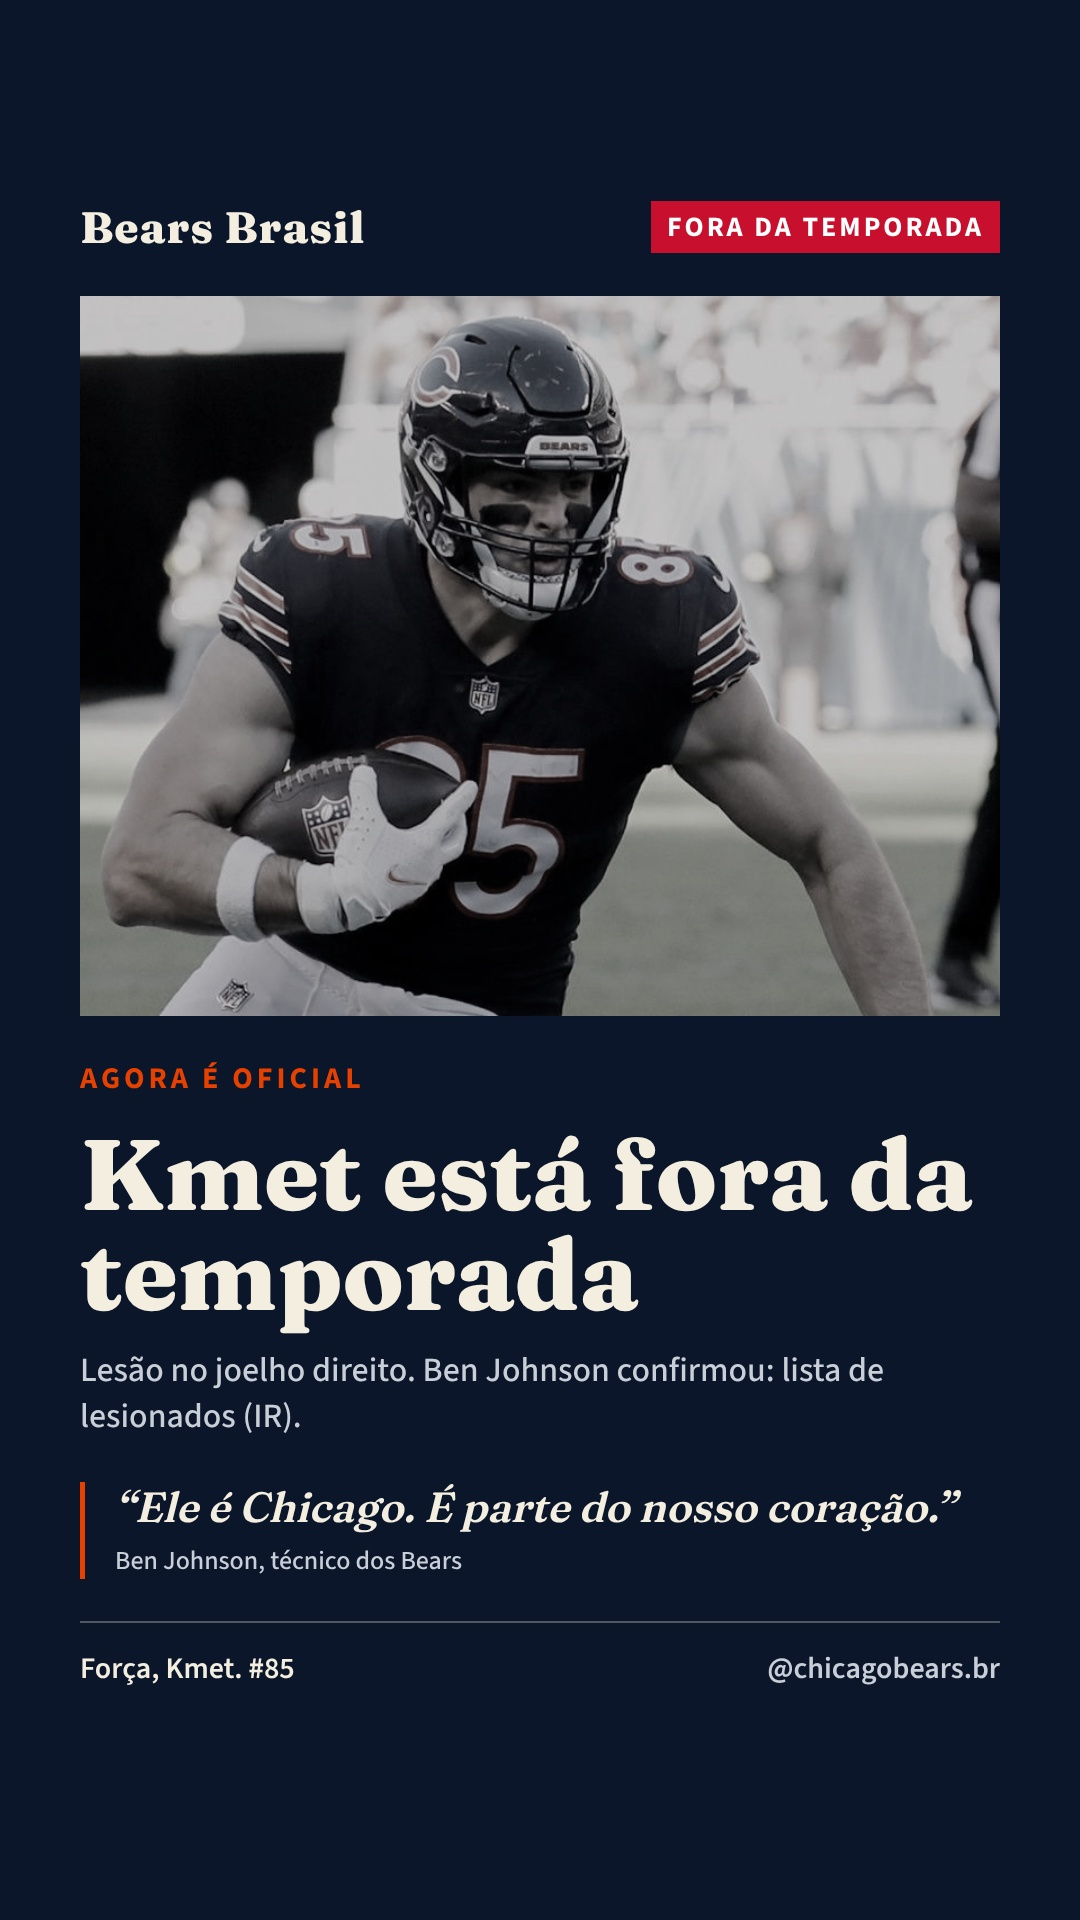
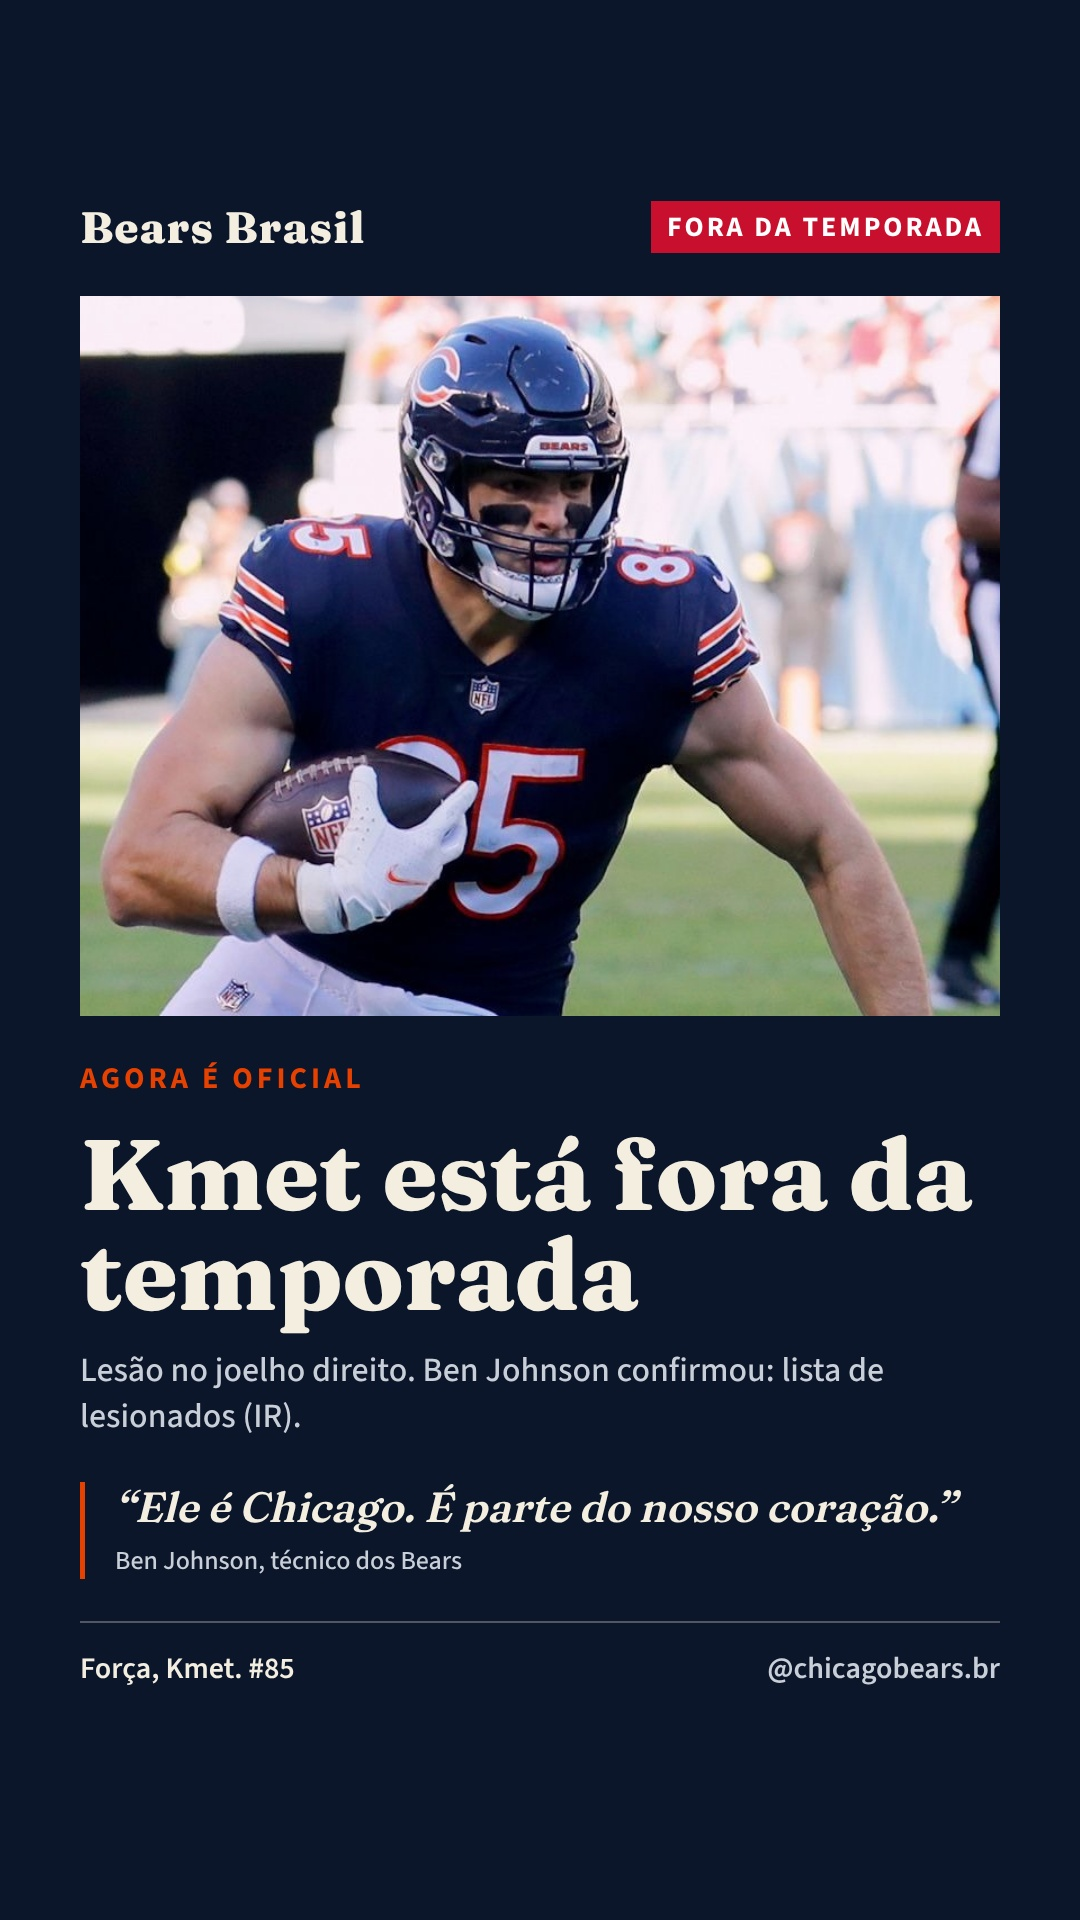
Story Kmet com foto colorida; manual: lesão sem foto P&B
Claude-Session: https://claude.ai/code/session_01Syt181bKu3WGs8mMQxwBo9

Changed region(s): [[0.0611, 0.1562, 0.9472, 0.5312]]

diff --git a/posts/2026-10-23/story-kmet-oficial/src/1.dc.html b/posts/2026-10-23/story-kmet-oficial/src/1.dc.html
@@ -17,7 +17,7 @@
 <span style="font-family: 'Fraunces', serif; font-weight: 800; font-size: 44px; letter-spacing: 1px">Bears Brasil</span>
 <span style="background: #C8102E; color: #FFFFFF; padding: 6px 16px">FORA DA TEMPORADA</span>
 </div>
-<div style="height: 720px; overflow: hidden; background: #0B162A"><img src="/_blob/f46fa6a28a13aa7d22f6f51dfc1165ce" alt="Cole Kmet" style="width: 100%; height: 100%; object-fit: cover; object-position: 42% 25%; display: block; filter: grayscale(0.85) brightness(0.8)"></div>
+<div style="height: 720px; overflow: hidden; background: #0B162A"><img src="/_blob/f46fa6a28a13aa7d22f6f51dfc1165ce" alt="Cole Kmet" style="width: 100%; height: 100%; object-fit: cover; object-position: 42% 25%; display: block; filter: none"></div>
 <div style="display: flex; flex-direction: column; gap: 24px">
 <span style="font-weight: 700; font-size: 30px; letter-spacing: 4px; color: #E64100">AGORA É OFICIAL</span>
 <h1 style="margin: 0; font-family: 'Fraunces', serif; font-weight: 800; font-size: 100px; line-height: 1.0">Kmet está fora da temporada</h1>

diff --git a/CLAUDE.md b/CLAUDE.md
@@ -57,6 +57,7 @@ Toda execução agendada começa lendo este arquivo. Escreva tudo para o Victor 
 - Injury report: verde = liberado, amarelo = questionável, laranja = dúvida, vermelho = fora/IR.
 - **Lesão importante sem atualização oficial** (Victor, 23/10): se o time não atualizar até a rodada seguinte, monte o post assim mesmo, com foto do jogador e o que já se sabe (fala do técnico, como foi a lesão, quem reportou). Deixe claro que ainda falta o diagnóstico oficial.
 - Fontes: A = Barlow Condensed + Barlow (transmissão); B = Fraunces + Source Sans 3 (notícia/rumor); C = Bangers + DM Sans (zoeira).
+- **Lesão = foto colorida** (Victor, 23/10): nada de preto e branco em post/story de lesão; P&B passa impressão de morte/luto. O tom triste vem do texto e do navy, não da foto.
 - Formato feed 1080×1350 (4:5). Story 1080×1920.
 - Cabeçalho com o selo BEARS/BRASIL; rodapé com @chicagobears.br. Carrossel: pílula "ARRASTE PRO LADO" no card 1.
 - Fotos: primeiro as galerias oficiais (chicagobears.com/photos). Guardar em `assets/fotos/AAAA-MM-DD-assunto.jpg`.
